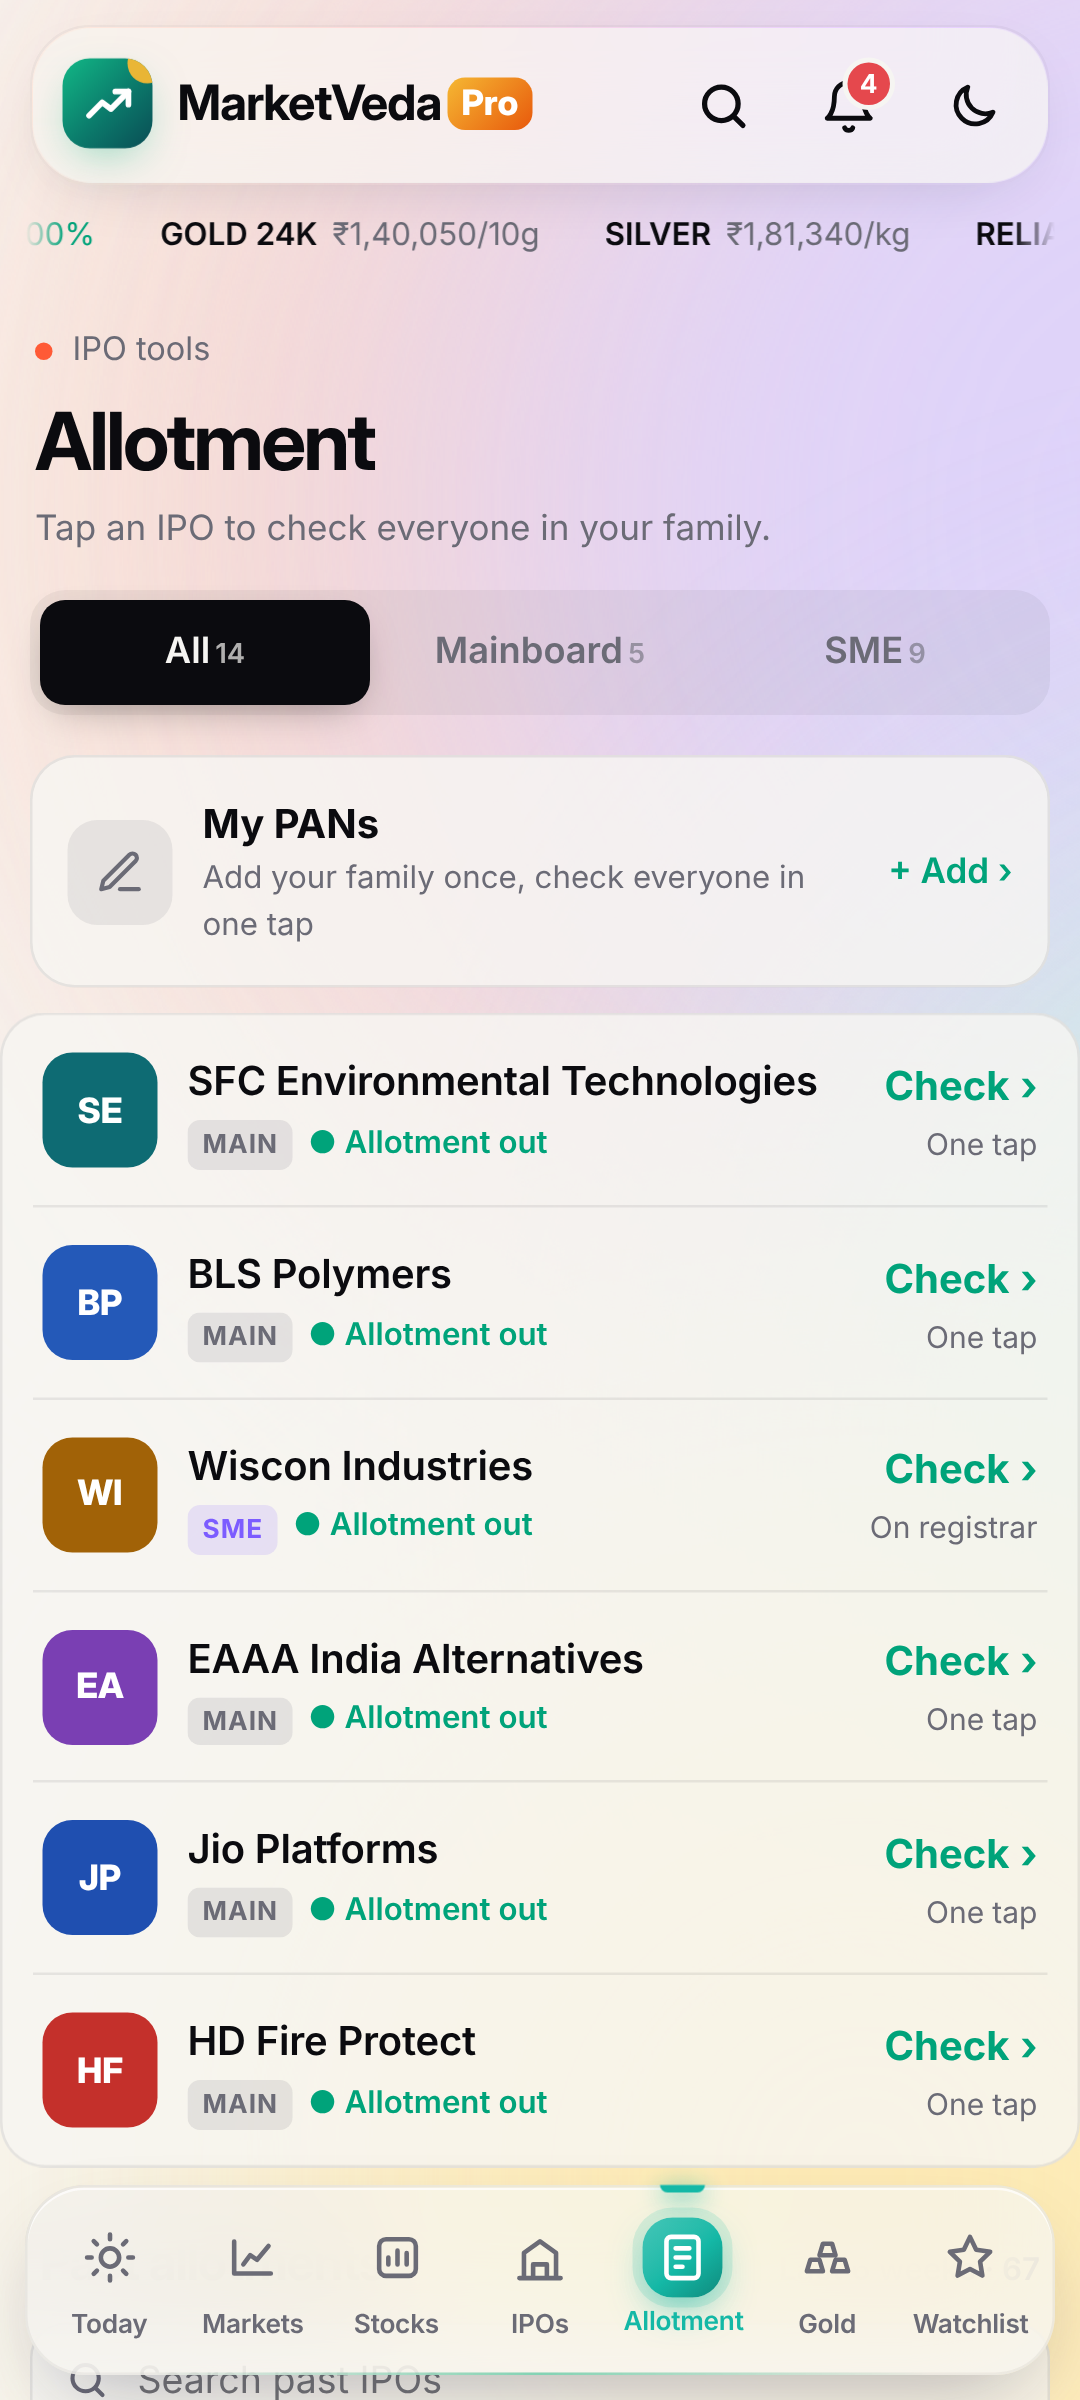
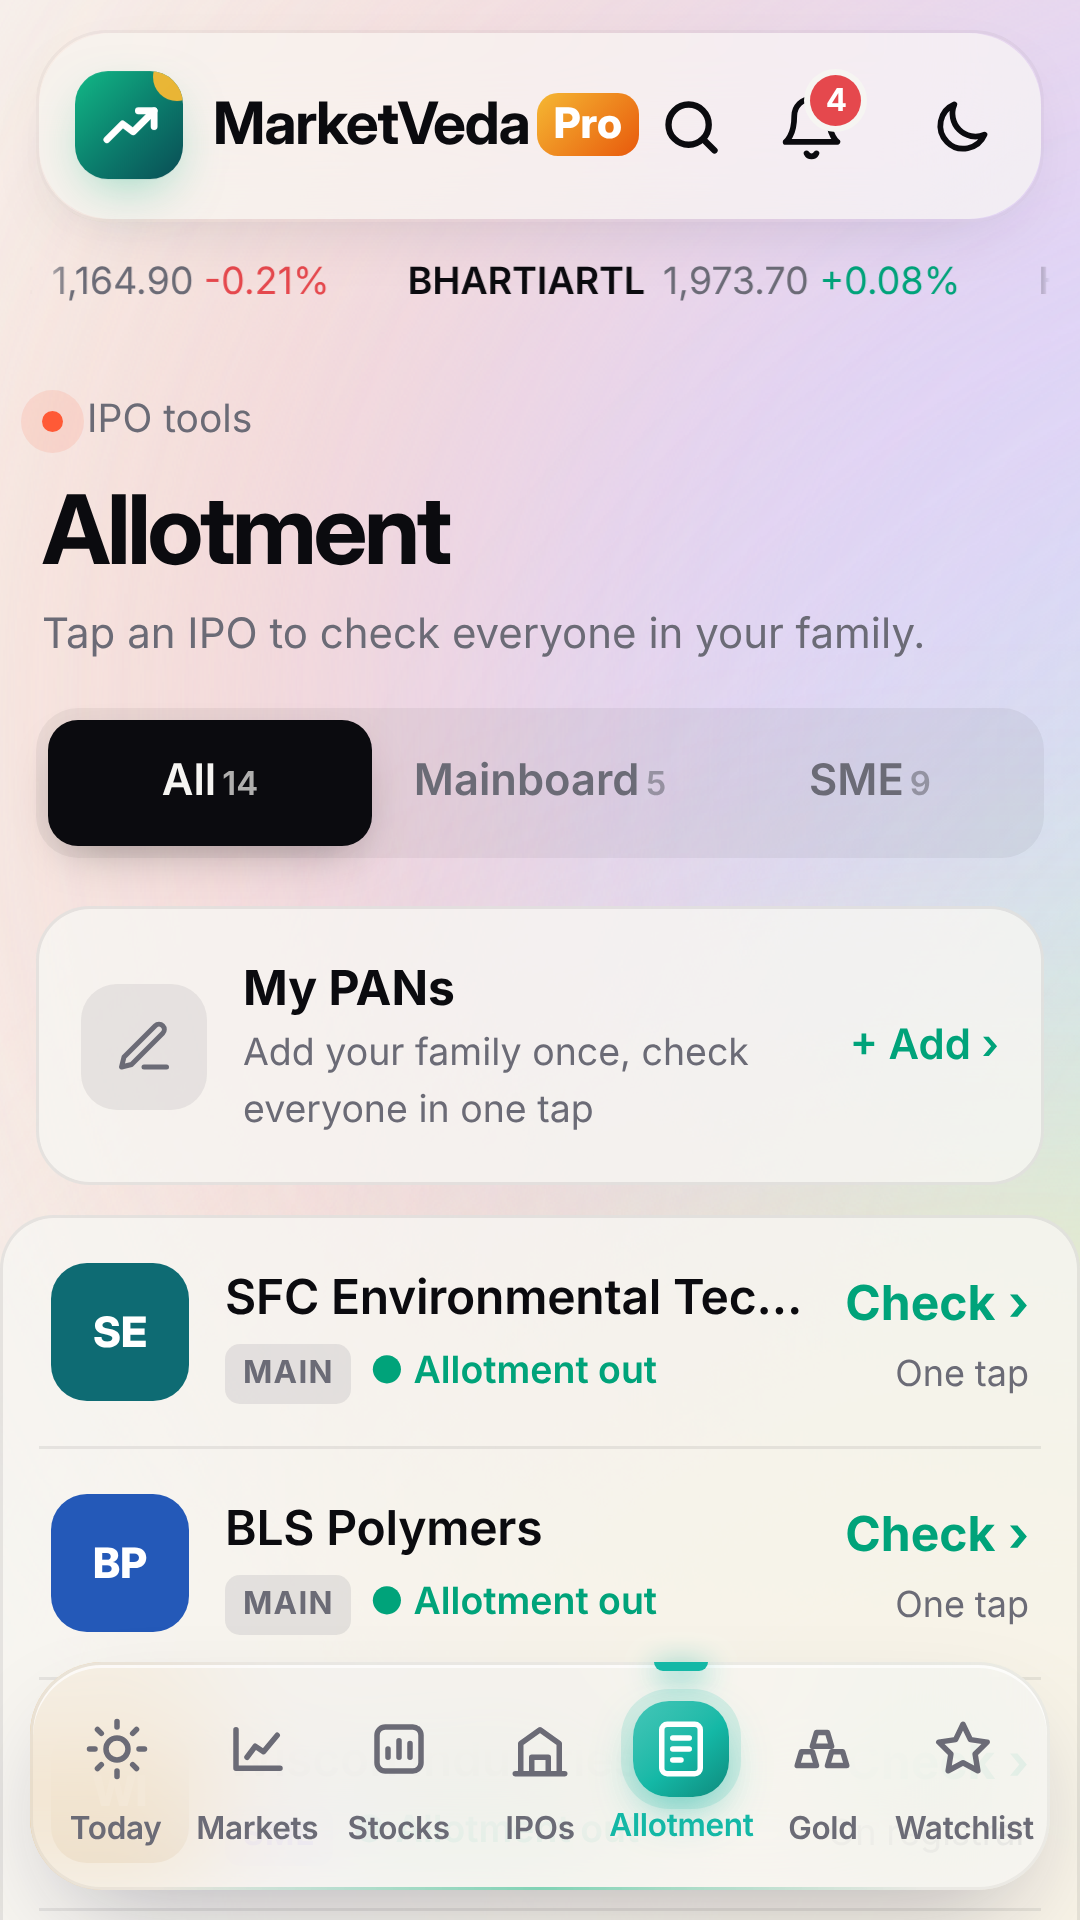
Audit fixes: live-every-second wording, fresh 1080x1920 install screenshots
Claude-Session: https://claude.ai/code/session_01VKQ5419W4ew2ZWbTXY4yw6

diff --git a/index.html b/index.html
@@ -1381,7 +1381,7 @@ body:not(.ready) footer{display:none}
   <p class="seol" style="margin:6px 0;display:flex;flex-wrap:wrap;gap:4px 12px"><a class="link" href="/stock-market-today/">Stock market today</a><a class="link" href="/ipo/">Upcoming IPOs</a><a class="link" href="/ipo-gmp/">IPO GMP today</a><a class="link" href="/ipo-allotment-status/">IPO allotment status</a><a class="link" href="/gold-rate-today/">Gold rate today</a><a class="link" href="/silver-rate-today/">Silver rate today</a><a class="link" href="/share-price/reliance/">Reliance share price</a><a class="link" href="/share-price/tcs/">TCS share price</a><a class="link" href="/share-price/hdfcbank/">HDFC Bank share price</a></p>
   <p style="margin:6px 0"><a class="link" href="#contact">Contact us</a> · <a class="link" href="#terms">Terms &amp; disclaimer</a> · <a class="link" href="#privacy">Privacy policy</a> · <a class="link" href="#pans">My PANs</a></p>
   <p id="srcs"></p>
-  <p>All figures are real and taken from the public sources named on each card. Market prices update about every minute during NSE hours (9:15 AM–3:30 PM) and show the last close otherwise. Subscription figures are snapshots at the time shown; GMP is unofficial grey-market talk, not a forecast. MarketVedaPro does not place IPO applications or trades: you apply in your own broker or bank app. Not investment advice; not registered with SEBI. Investments in securities are subject to market risks.</p>
+  <p>All figures are real and taken from the public sources named on each card. Stock, index, gold and silver prices update live every second during market hours (NSE 9:15 AM–3:30 PM, MCX until 11:30 PM) and show the last close otherwise. Subscription figures are snapshots at the time shown; GMP is unofficial grey-market talk, not a forecast. MarketVedaPro does not place IPO applications or trades: you apply in your own broker or bank app. Not investment advice; not registered with SEBI. Investments in securities are subject to market risks.</p>
 </footer>
 </div>
 
@@ -2569,7 +2569,7 @@ function renderStockPage(sym){
     <div id="sx" data-k="${sym==='MM'?'M&M':sym}"></div>
     ${peer.length?`<div class="secht"><div><h2>Peers</h2><p>Other ${esc(s.sector.toLowerCase())} companies in this list</p></div></div><div class="glass card">${peer.map(p=>wlRow(p.sym)).join('')}</div>`:''}
     ${news.length?`<div class="secht"><div><h2>In the news</h2></div></div><div class="glass card">${news.map(newsItem).join('')}</div>`:''}
-    <p class="src">${LIVED?`Price and day change: NSE via Yahoo Finance, updated ${esc(LIVED.label)} (refreshes every minute in market hours). P/E and market cap move with the price; quarterly figures from Screener.in.`:"Price, valuation and quarterly figures: Screener.in, 29 Oct 2026 close."}</p>`;
+    <p class="src">${LIVED?`Price and day change: NSE via Yahoo Finance, updated ${esc(LIVED.label)} (live every second in market hours). P/E and market cap move with the price; quarterly figures from Screener.in.`:"Price, valuation and quarterly figures: Screener.in, 29 Oct 2026 close."}</p>`;
 }
 
 // ===================== news =====================
@@ -2766,7 +2766,7 @@ let apiOk=true;
 function priceLbl(){if(!LIVED)return 'Close · 29 Oct 2026';const t=new Date(LIVED.updated).toLocaleTimeString('en-IN',{hour:'numeric',minute:'2-digit',timeZone:'Asia/Kolkata'});return LIVED.state==='open'?`● Live · updated ${t}`:`Last price · ${LIVED.label}`}
 function patchLabels(){if(!LIVED)return;const set=(id,h)=>{const e=document.getElementById(id);if(e)e.innerHTML=h};
   set('st-eb',`Nifty 50 heavyweights · ${esc(priceLbl())}`);
-  set('st-src',`Price and day change: NSE via Yahoo Finance, updated ${esc(LIVED.label)}; refreshes about every minute in market hours. P/E, market cap and dividend yield move with the price. Quarterly sales, profit and ROCE: Screener.in.`);
+  set('st-src',`Price and day change: NSE via Yahoo Finance, updated ${esc(LIVED.label)}; live every second in market hours. P/E, market cap and dividend yield move with the price. Quarterly sales, profit and ROCE: Screener.in.`);
   if(LIVED.news&&LIVED.news.length)set('nw-eb',`Latest headlines · updated ${esc(LIVED.label)}`)}
 function softRefresh(){if(document.querySelector('.overlay.on')||document.querySelector('input:focus,select:focus')||(typeof openSel!=='undefined'&&openSel))return false;
   const v=document.querySelector('.view.on'),id=v?v.id.slice(2):'markets',y=scrollY;

diff --git a/sw.js b/sw.js
@@ -1,5 +1,5 @@
 // MarketVedaPro service worker: app works offline with the last figures; live data is always fetched fresh.
-const CACHE = 'marketvedapro-v20';
+const CACHE = 'marketvedapro-v21';
 const SHELL = ['./', './index.html', './manifest.webmanifest', './icons/icon-192.png', './icons/icon-512.png', './icons/apple-touch-icon.png'];
 self.addEventListener('install', e => { e.waitUntil(caches.open(CACHE).then(c => c.addAll(SHELL)).then(() => self.skipWaiting())); });
 self.addEventListener('activate', e => {
